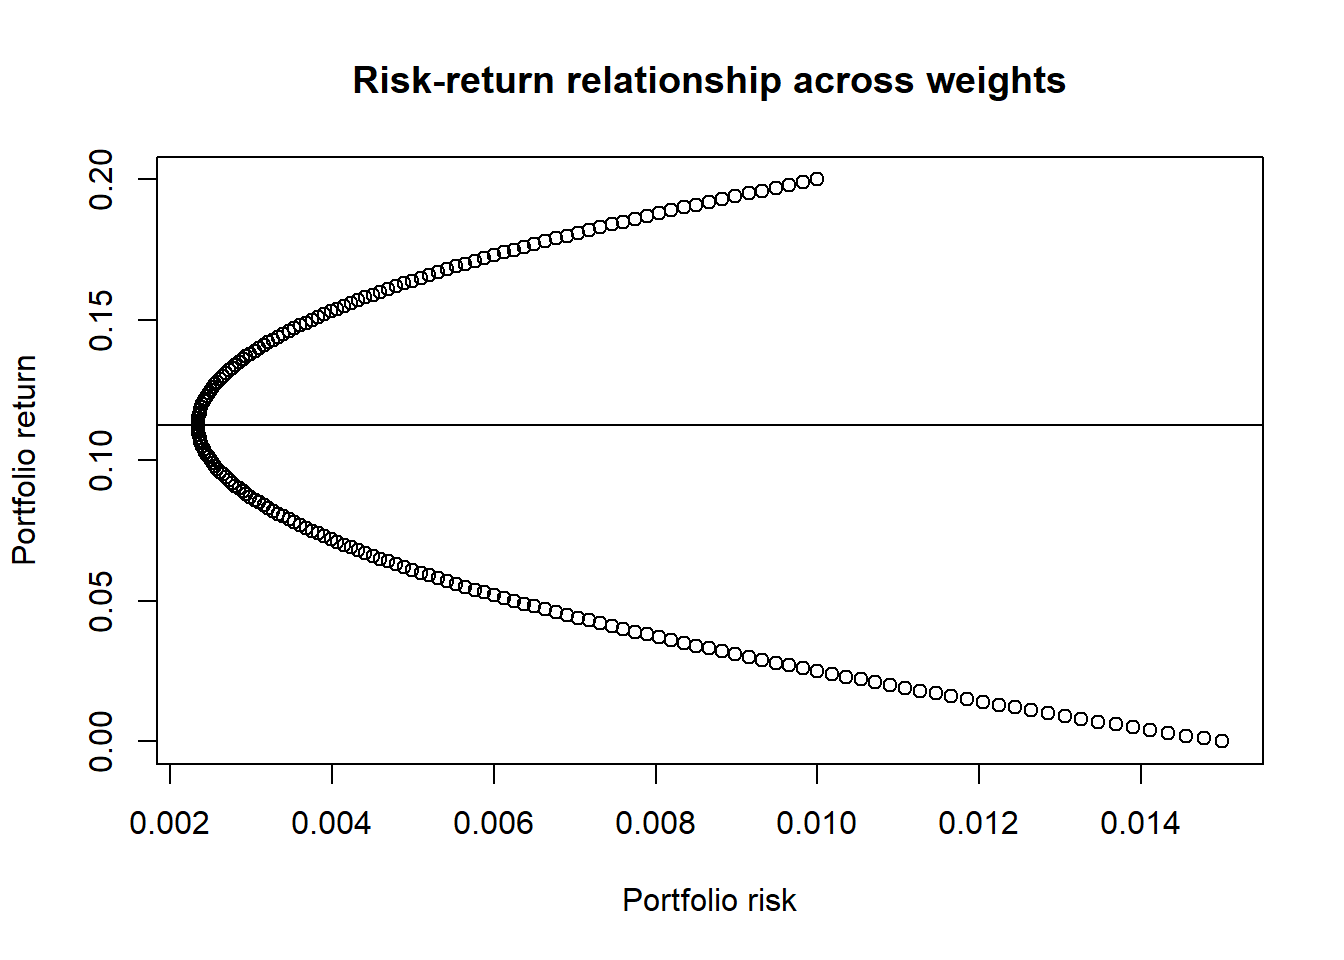
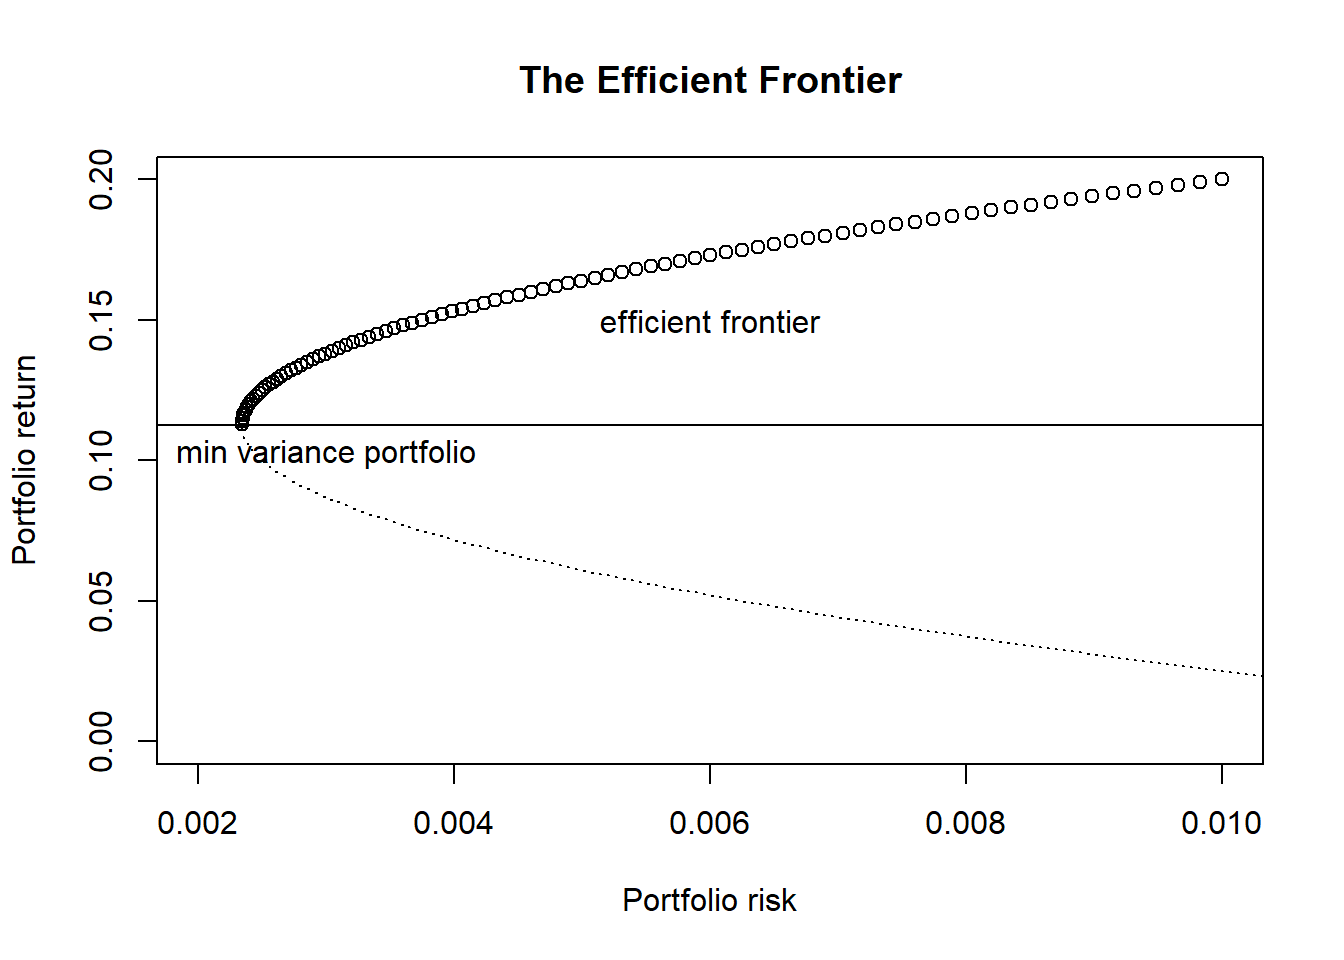
work on mpt post

diff --git a/public/post/2020/04/10/wip-introduction-to-modern-portfolio-theory/index.html b/public/post/2020/04/10/wip-introduction-to-modern-portfolio-theory/index.html
@@ -38,7 +38,7 @@
 
 <h3 class="categories">[Stats finance]</h3>
 <h3>2020/04/10</h3>
-<h3>9min read</h3>
+<h3>10min read</h3>
 </div>
 
 <main>
@@ -51,12 +51,13 @@
 <li><a href="#portfolio-weights">Portfolio weights</a></li>
 <li><a href="#portfolio-expectation-and-variance">Portfolio expectation and variance</a></li>
 </ul></li>
-<li><a href="#a-note-on-diversification">A note on diversification</a><ul>
+<li><a href="#the-math-behind-diversification">The math behind diversification</a><ul>
 <li><a href="#two-uncorrelated-assets">Two uncorrelated assets</a></li>
 <li><a href="#two-correlated-assets">Two correlated assets</a></li>
 </ul></li>
 <li><a href="#starting-with-two-assets">Starting with two assets</a><ul>
 <li><a href="#efficient-portfolios">Efficient Portfolios</a></li>
+<li><a href="#minimum-variance-portfolio">Minimum variance portfolio</a></li>
 </ul></li>
 <li><a href="#wip">WIP</a></li>
 </ul>
@@ -112,8 +113,8 @@ where <span class="math inline">\(\sigma_{ij}\)</span> is the covariance between
 <p><span class="math display">\[Var(R_{pf}) = \sum_i\sum_jw_iw_j\sigma_{ij} = \mathbf{w}_T\Sigma \mathbf{w}\]</span></p>
 </div>
 </div>
-<div id="a-note-on-diversification" class="section level2">
-<h2>A note on diversification</h2>
+<div id="the-math-behind-diversification" class="section level2">
+<h2>The math behind diversification</h2>
 <p>We all know “not to put our eggs in one basket”, and have a diversified portfolio. Intutitively, we know that if we were to put all our money on a single stock, then we have placed a large bet on that one company. While we could instantly make it big just by having our one stock making it big, <a href="https://en.wikipedia.org/wiki/Loss_aversion">loss aversion</a> would indicate that we would rather minimize the risk of losing it all in a single stock.</p>
 <p>In this sense, what divserification does to a portfolio is that it minimizes risk of the portfolio. While the mean return of a portfolio depends on the mean returns of the individual assets and their respective weights, the risk of the portfolio depends on both the risk of the individual assets, as well as each asset’s relationships with the others, in terms of correlations.</p>
 <p>This means that placing a right mix of weights and assets would reduce the risk of the portfolio - a fundamental idea in portfolio theory. Diversification, by way of investing in multiple assets, reduces risks.</p>
@@ -205,31 +206,57 @@ plot(risks, returns,
 <li>For every possible value of return, there is one corresponding value of risk.</li>
 <li>However, for every possible value of risk, there are two corresponding values of returns.</li>
 </ul>
-<p>Naturally, for a given amount of risk that we would like to take on, we would want a higher return than a lower one. Therefore, any combination of risk-return that belongs to the top half of the plot would be portfolios that we would want, as compared to the lower half, and we would want to know which is the portfolio or weight that has the lowest risks. This portfolio is also known as the minimum risk portfolio.</p>
+<p>Naturally, for a given amount of risk that we would like to take on, we would want a higher return than a lower one. Therefore, any combination of risk-return that belongs to the top half of the plot would be portfolios that we would want, as compared to the lower half. In particular, each combination in the top half of the plot are considered as <strong>efficient portfolios</strong>. At this point, we might also want to know which is the portfolio or weight that has the lowest risks. This portfolio is also known as the <strong>minimum variance portfolio</strong>.</p>
+<hr />
+<p><strong><em>Terminology</em></strong></p>
+<p><strong><em>Efficient portfolios</em></strong> lie on on the <a href="https://en.wikipedia.org/wiki/Efficient_frontier"><strong>efficient frontier</strong></a>, the top half of our plot. By definition, the efficient frontier consists of portfolios such that for each of these portfolios and their respective returns, there exists no other portfolios that carries a lower portfolio risk for a given return (hence “efficient”<a href="#fn5" class="footnote-ref" id="fnref5"><sup>5</sup></a>). The <strong>minimum variance portfolio</strong> is one special case of an efficient portfolio - no other portfolios carries a lower portfolio risk than itself, and is the leftmost point of our plot.</p>
+<hr />
 <pre class="r"><code>min_risk_w &lt;- weights[which(risks == min(risks))]
 min_risk_return &lt;- mean(cal_pf_return(min_risk_w))
 
-plot(risks, returns,
+efficient_idx &lt;- which(returns &gt;= min_risk_return)
+inefficient_idx &lt;- which(returns &lt; min_risk_return)
+
+plot(risks[efficient_idx], returns[efficient_idx],
      xlab = &quot;Portfolio risk&quot;,
      ylab = &quot;Portfolio return&quot;,
-     main = &quot;Risk-return relationship across weights&quot;)
+     main = &quot;The Efficient Frontier&quot;,
+     ylim = c(0,0.2), xlim = c(0.002, 0.01))
 
-abline(h = min_risk_return)</code></pre>
+lines(risks[inefficient_idx], returns[inefficient_idx], lty = &quot;dotted&quot;)
+
+abline(h = min_risk_return)
+text(x = 0.003, y = min_risk_return-0.01, &quot;min variance portfolio&quot;)
+text(x = 0.006, y = 0.15, &quot;efficient frontier&quot;)</code></pre>
 <p><img src="/post/2020-04-10-introduction-to-modern-portfolio-theory_files/figure-html/unnamed-chunk-2-1.png" width="672" style="display: block; margin: auto;" /></p>
+</div>
+<div id="minimum-variance-portfolio" class="section level3">
+<h3>Minimum variance portfolio</h3>
+<p>In the example above, we arrived at the minimum variance portfolio by doing some simple calculations. A more robust method would be arrive at the minimum variance portfolio analytically by treating the problem as a optimization problem, minimizing <span class="math inline">\(Var(R_{pf})\)</span>.</p>
 </div>
 </div>
 <div id="wip" class="section level2">
 <h2>WIP</h2>
-<p><a href="#fn5" class="footnote-ref" id="fnref5"><sup>5</sup></a>.</p>
+<ul>
+<li>min variance portfolio</li>
+<li>lagrangian multiplier</li>
+<li>risk free assets</li>
+<li>one risky and one risk free asset</li>
+<li>sharpe ratio, tangency portfolio</li>
+<li>generalise to N assets</li>
+<li>r examples</li>
+</ul>
+<p><a href="#fn6" class="footnote-ref" id="fnref6"><sup>6</sup></a>.</p>
 </div>
 <div class="footnotes">
 <hr />
 <ol>
 <li id="fn1"><p>In my personal opinion, using standard deviation as a measure of risk is a little iffy, for several reasons. For example, risk could be better represented as a probability of huge losses, rather than the sd of expected returns - but let’s stick to this for now.<a href="#fnref1" class="footnote-back">↩</a></p></li>
 <li id="fn2"><p>In particular, choosing <span class="math inline">\(w\)</span> = <span class="math inline">\(\frac{1}{2}\)</span> minimizes <span class="math inline">\(Var(R_{pf})\)</span> at <span class="math inline">\(\frac{\sigma}{\sqrt{2}}\)</span>.<a href="#fnref2" class="footnote-back">↩</a></p></li>
-<li id="fn3"><p>It’s commonly said that stocks and bonds are considered to be negatively correlated. Assuming that this is indeed true, consider the two subdomains <span class="math inline">\(\rho_{12} &lt; 0\)</span> and <span class="math inline">\(\rho_{12} &gt; 0\)</span>. We have <span class="math inline">\(\forall\rho_{12} &lt; 0, Var(R_{pf}) &lt; \frac{1}{2}\sigma^2\)</span> and <span class="math inline">\(\forall\rho_{12} &gt; 0, Var(R_{pf}) &gt; \frac{1}{2}\sigma^2\)</span>, i.e. portfolio risk reduces when you have two negatively correlated assets in the portfolio - an intuitive result and justification for proper diversification and <a href="https://www.investopedia.com/terms/s/strategicassetallocation.asp">strategic asset allocation</a>. This of course begs the question on whether stocks and bonds are indeed negatively correlated, in good economic times and in bad, and correlated by how much. We can explore this topic deeper in the future.<a href="#fnref3" class="footnote-back">↩</a></p></li>
+<li id="fn3"><p>It’s commonly said that stocks and bonds are considered to be negatively correlated. Assuming this is true, consider the two subdomains <span class="math inline">\(\rho_{12} &lt; 0\)</span> and <span class="math inline">\(\rho_{12} &gt; 0\)</span>. We have <span class="math inline">\(\forall\rho_{12} &lt; 0, Var(R_{pf}) &lt; \frac{1}{2}\sigma^2\)</span> and <span class="math inline">\(\forall\rho_{12} &gt; 0, Var(R_{pf}) &gt; \frac{1}{2}\sigma^2\)</span>, i.e. portfolio risk reduces when you have two negatively correlated assets in the portfolio - an intuitive result and justification for proper diversification and <a href="https://www.investopedia.com/terms/s/strategicassetallocation.asp">strategic asset allocation</a>. This of course begs the question on whether stocks and bonds are indeed negatively correlated, in good economic times and in bad, and correlated by how much. We can explore this topic deeper in the future. Also, the math here is similar to that of <a href="https://thestatsguy.rbind.io/post/2018/12/25/why-ensemble-modelling-works-so-well-and-one-often-neglected-principle/">ensemble modelling</a> in machine learning.<a href="#fnref3" class="footnote-back">↩</a></p></li>
 <li id="fn4"><p>Of course the challenge in real life is to estimate them using historical data.<a href="#fnref4" class="footnote-back">↩</a></p></li>
-<li id="fn5"><p>Again, for simplification, we only consider long positions <span class="math inline">\(0 \leqslant w \leqslant 1\)</span>, <code>weights &lt;- seq(0, 1, by = 0.01)</code> in this post. If short positions are considered, then <span class="math inline">\(-\infty \leqslant w \leqslant \infty\)</span>.<a href="#fnref5" class="footnote-back">↩</a></p></li>
+<li id="fn5"><p>The same way an estimator <span class="math inline">\(\hat{\theta}\)</span> is <a href="https://en.wikipedia.org/wiki/Efficient_estimator">efficient</a> if <span class="math inline">\(Var(\hat{\theta})\)</span> is minimized.<a href="#fnref5" class="footnote-back">↩</a></p></li>
+<li id="fn6"><p>Again, for simplification, we only consider long positions <span class="math inline">\(0 \leqslant w \leqslant 1\)</span>, <code>weights &lt;- seq(0, 1, by = 0.01)</code> in this post. If short positions are considered, then <span class="math inline">\(-\infty \leqslant w \leqslant \infty\)</span>.<a href="#fnref6" class="footnote-back">↩</a></p></li>
 </ol>
 </div>
 

diff --git a/content/post/2020-04-10-introduction-to-modern-portfolio-theory.html b/content/post/2020-04-10-introduction-to-modern-portfolio-theory.html
@@ -17,12 +17,13 @@ output:
 <li><a href="#portfolio-weights">Portfolio weights</a></li>
 <li><a href="#portfolio-expectation-and-variance">Portfolio expectation and variance</a></li>
 </ul></li>
-<li><a href="#a-note-on-diversification">A note on diversification</a><ul>
+<li><a href="#the-math-behind-diversification">The math behind diversification</a><ul>
 <li><a href="#two-uncorrelated-assets">Two uncorrelated assets</a></li>
 <li><a href="#two-correlated-assets">Two correlated assets</a></li>
 </ul></li>
 <li><a href="#starting-with-two-assets">Starting with two assets</a><ul>
 <li><a href="#efficient-portfolios">Efficient Portfolios</a></li>
+<li><a href="#minimum-variance-portfolio">Minimum variance portfolio</a></li>
 </ul></li>
 <li><a href="#wip">WIP</a></li>
 </ul>
@@ -78,8 +79,8 @@ where <span class="math inline">\(\sigma_{ij}\)</span> is the covariance between
 <p><span class="math display">\[Var(R_{pf}) = \sum_i\sum_jw_iw_j\sigma_{ij} = \mathbf{w}_T\Sigma \mathbf{w}\]</span></p>
 </div>
 </div>
-<div id="a-note-on-diversification" class="section level2">
-<h2>A note on diversification</h2>
+<div id="the-math-behind-diversification" class="section level2">
+<h2>The math behind diversification</h2>
 <p>We all know “not to put our eggs in one basket”, and have a diversified portfolio. Intutitively, we know that if we were to put all our money on a single stock, then we have placed a large bet on that one company. While we could instantly make it big just by having our one stock making it big, <a href="https://en.wikipedia.org/wiki/Loss_aversion">loss aversion</a> would indicate that we would rather minimize the risk of losing it all in a single stock.</p>
 <p>In this sense, what divserification does to a portfolio is that it minimizes risk of the portfolio. While the mean return of a portfolio depends on the mean returns of the individual assets and their respective weights, the risk of the portfolio depends on both the risk of the individual assets, as well as each asset’s relationships with the others, in terms of correlations.</p>
 <p>This means that placing a right mix of weights and assets would reduce the risk of the portfolio - a fundamental idea in portfolio theory. Diversification, by way of investing in multiple assets, reduces risks.</p>
@@ -171,30 +172,56 @@ plot(risks, returns,
 <li>For every possible value of return, there is one corresponding value of risk.</li>
 <li>However, for every possible value of risk, there are two corresponding values of returns.</li>
 </ul>
-<p>Naturally, for a given amount of risk that we would like to take on, we would want a higher return than a lower one. Therefore, any combination of risk-return that belongs to the top half of the plot would be portfolios that we would want, as compared to the lower half, and we would want to know which is the portfolio or weight that has the lowest risks. This portfolio is also known as the minimum risk portfolio.</p>
+<p>Naturally, for a given amount of risk that we would like to take on, we would want a higher return than a lower one. Therefore, any combination of risk-return that belongs to the top half of the plot would be portfolios that we would want, as compared to the lower half. In particular, each combination in the top half of the plot are considered as <strong>efficient portfolios</strong>. At this point, we might also want to know which is the portfolio or weight that has the lowest risks. This portfolio is also known as the <strong>minimum variance portfolio</strong>.</p>
+<hr />
+<p><strong><em>Terminology</em></strong></p>
+<p><strong><em>Efficient portfolios</em></strong> lie on on the <a href="https://en.wikipedia.org/wiki/Efficient_frontier"><strong>efficient frontier</strong></a>, the top half of our plot. By definition, the efficient frontier consists of portfolios such that for each of these portfolios and their respective returns, there exists no other portfolios that carries a lower portfolio risk for a given return (hence “efficient”<a href="#fn5" class="footnote-ref" id="fnref5"><sup>5</sup></a>). The <strong>minimum variance portfolio</strong> is one special case of an efficient portfolio - no other portfolios carries a lower portfolio risk than itself, and is the leftmost point of our plot.</p>
+<hr />
 <pre class="r"><code>min_risk_w &lt;- weights[which(risks == min(risks))]
 min_risk_return &lt;- mean(cal_pf_return(min_risk_w))
 
-plot(risks, returns,
+efficient_idx &lt;- which(returns &gt;= min_risk_return)
+inefficient_idx &lt;- which(returns &lt; min_risk_return)
+
+plot(risks[efficient_idx], returns[efficient_idx],
      xlab = &quot;Portfolio risk&quot;,
      ylab = &quot;Portfolio return&quot;,
-     main = &quot;Risk-return relationship across weights&quot;)
+     main = &quot;The Efficient Frontier&quot;,
+     ylim = c(0,0.2), xlim = c(0.002, 0.01))
 
-abline(h = min_risk_return)</code></pre>
+lines(risks[inefficient_idx], returns[inefficient_idx], lty = &quot;dotted&quot;)
+
+abline(h = min_risk_return)
+text(x = 0.003, y = min_risk_return-0.01, &quot;min variance portfolio&quot;)
+text(x = 0.006, y = 0.15, &quot;efficient frontier&quot;)</code></pre>
 <p><img src="/post/2020-04-10-introduction-to-modern-portfolio-theory_files/figure-html/unnamed-chunk-2-1.png" width="672" style="display: block; margin: auto;" /></p>
+</div>
+<div id="minimum-variance-portfolio" class="section level3">
+<h3>Minimum variance portfolio</h3>
+<p>In the example above, we arrived at the minimum variance portfolio by doing some simple calculations. A more robust method would be arrive at the minimum variance portfolio analytically by treating the problem as a optimization problem, minimizing <span class="math inline">\(Var(R_{pf})\)</span>.</p>
 </div>
 </div>
 <div id="wip" class="section level2">
 <h2>WIP</h2>
-<p><a href="#fn5" class="footnote-ref" id="fnref5"><sup>5</sup></a>.</p>
+<ul>
+<li>min variance portfolio</li>
+<li>lagrangian multiplier</li>
+<li>risk free assets</li>
+<li>one risky and one risk free asset</li>
+<li>sharpe ratio, tangency portfolio</li>
+<li>generalise to N assets</li>
+<li>r examples</li>
+</ul>
+<p><a href="#fn6" class="footnote-ref" id="fnref6"><sup>6</sup></a>.</p>
 </div>
 <div class="footnotes">
 <hr />
 <ol>
 <li id="fn1"><p>In my personal opinion, using standard deviation as a measure of risk is a little iffy, for several reasons. For example, risk could be better represented as a probability of huge losses, rather than the sd of expected returns - but let’s stick to this for now.<a href="#fnref1" class="footnote-back">↩</a></p></li>
 <li id="fn2"><p>In particular, choosing <span class="math inline">\(w\)</span> = <span class="math inline">\(\frac{1}{2}\)</span> minimizes <span class="math inline">\(Var(R_{pf})\)</span> at <span class="math inline">\(\frac{\sigma}{\sqrt{2}}\)</span>.<a href="#fnref2" class="footnote-back">↩</a></p></li>
-<li id="fn3"><p>It’s commonly said that stocks and bonds are considered to be negatively correlated. Assuming that this is indeed true, consider the two subdomains <span class="math inline">\(\rho_{12} &lt; 0\)</span> and <span class="math inline">\(\rho_{12} &gt; 0\)</span>. We have <span class="math inline">\(\forall\rho_{12} &lt; 0, Var(R_{pf}) &lt; \frac{1}{2}\sigma^2\)</span> and <span class="math inline">\(\forall\rho_{12} &gt; 0, Var(R_{pf}) &gt; \frac{1}{2}\sigma^2\)</span>, i.e. portfolio risk reduces when you have two negatively correlated assets in the portfolio - an intuitive result and justification for proper diversification and <a href="https://www.investopedia.com/terms/s/strategicassetallocation.asp">strategic asset allocation</a>. This of course begs the question on whether stocks and bonds are indeed negatively correlated, in good economic times and in bad, and correlated by how much. We can explore this topic deeper in the future.<a href="#fnref3" class="footnote-back">↩</a></p></li>
+<li id="fn3"><p>It’s commonly said that stocks and bonds are considered to be negatively correlated. Assuming this is true, consider the two subdomains <span class="math inline">\(\rho_{12} &lt; 0\)</span> and <span class="math inline">\(\rho_{12} &gt; 0\)</span>. We have <span class="math inline">\(\forall\rho_{12} &lt; 0, Var(R_{pf}) &lt; \frac{1}{2}\sigma^2\)</span> and <span class="math inline">\(\forall\rho_{12} &gt; 0, Var(R_{pf}) &gt; \frac{1}{2}\sigma^2\)</span>, i.e. portfolio risk reduces when you have two negatively correlated assets in the portfolio - an intuitive result and justification for proper diversification and <a href="https://www.investopedia.com/terms/s/strategicassetallocation.asp">strategic asset allocation</a>. This of course begs the question on whether stocks and bonds are indeed negatively correlated, in good economic times and in bad, and correlated by how much. We can explore this topic deeper in the future. Also, the math here is similar to that of <a href="https://thestatsguy.rbind.io/post/2018/12/25/why-ensemble-modelling-works-so-well-and-one-often-neglected-principle/">ensemble modelling</a> in machine learning.<a href="#fnref3" class="footnote-back">↩</a></p></li>
 <li id="fn4"><p>Of course the challenge in real life is to estimate them using historical data.<a href="#fnref4" class="footnote-back">↩</a></p></li>
-<li id="fn5"><p>Again, for simplification, we only consider long positions <span class="math inline">\(0 \leqslant w \leqslant 1\)</span>, <code>weights &lt;- seq(0, 1, by = 0.01)</code> in this post. If short positions are considered, then <span class="math inline">\(-\infty \leqslant w \leqslant \infty\)</span>.<a href="#fnref5" class="footnote-back">↩</a></p></li>
+<li id="fn5"><p>The same way an estimator <span class="math inline">\(\hat{\theta}\)</span> is <a href="https://en.wikipedia.org/wiki/Efficient_estimator">efficient</a> if <span class="math inline">\(Var(\hat{\theta})\)</span> is minimized.<a href="#fnref5" class="footnote-back">↩</a></p></li>
+<li id="fn6"><p>Again, for simplification, we only consider long positions <span class="math inline">\(0 \leqslant w \leqslant 1\)</span>, <code>weights &lt;- seq(0, 1, by = 0.01)</code> in this post. If short positions are considered, then <span class="math inline">\(-\infty \leqslant w \leqslant \infty\)</span>.<a href="#fnref6" class="footnote-back">↩</a></p></li>
 </ol>
 </div>
